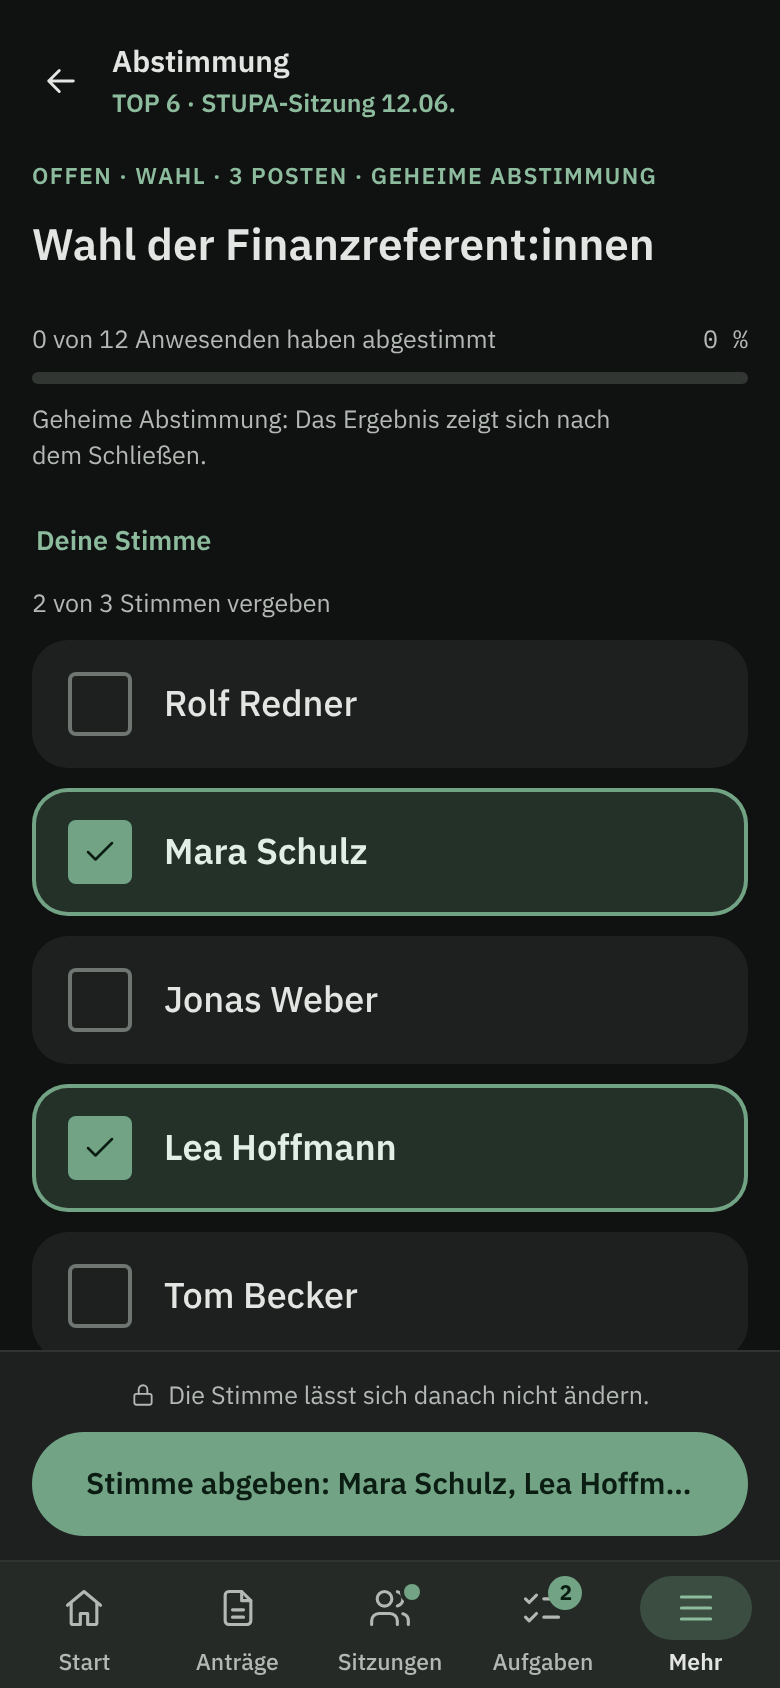
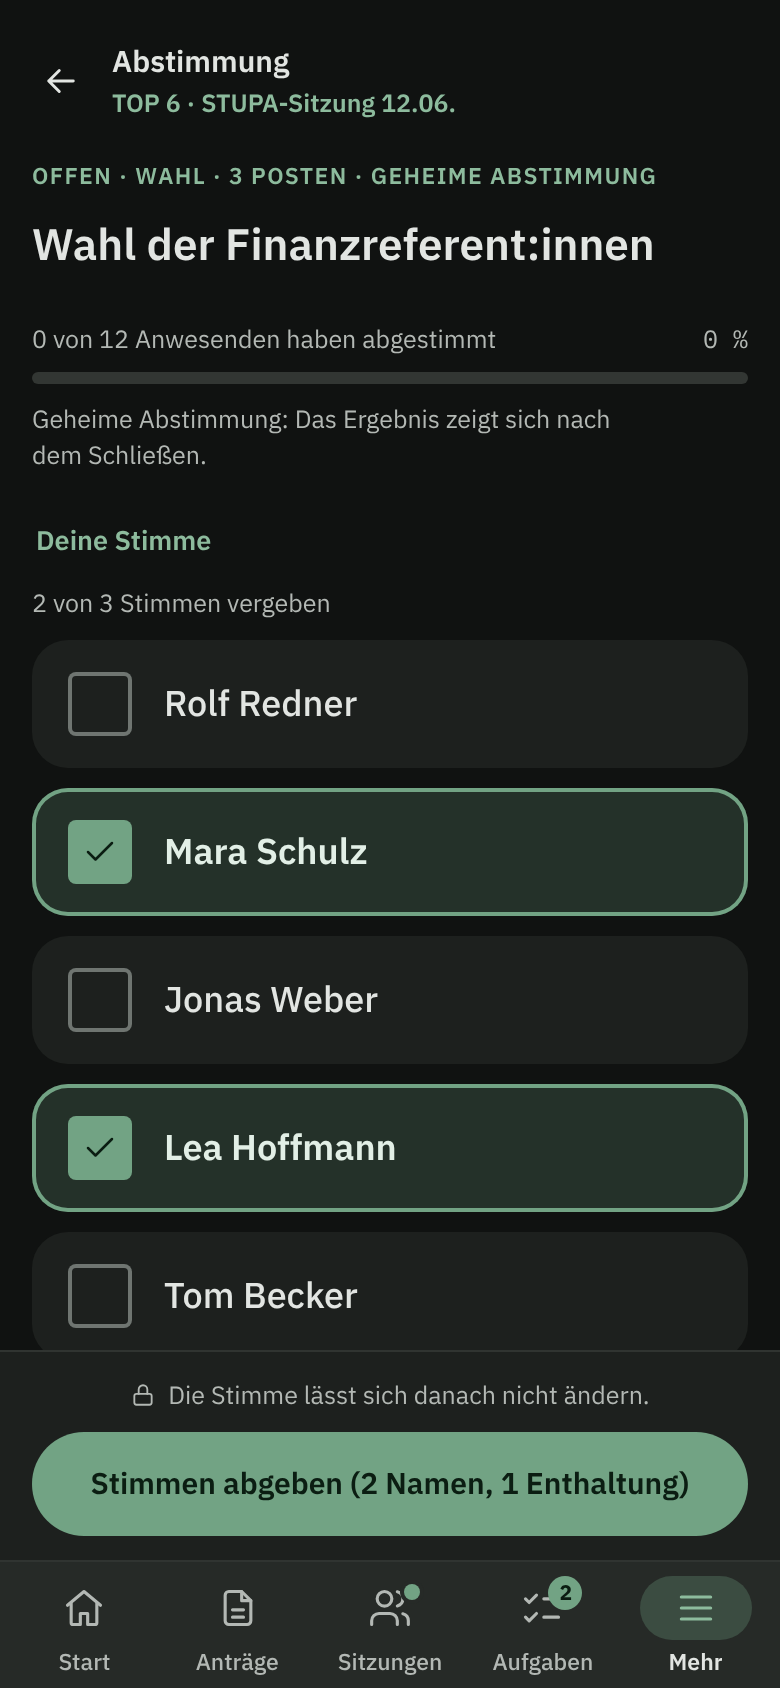
feat(frontend): show a vote counter on the multi-seat ballot button
Claude-Session: https://claude.ai/code/session_016n9HgDiT35tbCR539ybDL4

Changed region(s): [[0.1231, 0.8626, 0.8923, 0.8934]]

diff --git a/frontend/src/app/features/voting/ballot/ballot-election.spec.ts b/frontend/src/app/features/voting/ballot/ballot-election.spec.ts
@@ -57,17 +57,22 @@ describe('BallotComponent · election (F2)', () => {
     expect(await runAxe(container)).toHaveNoViolations();
   });
 
-  it('several seats: check boxes, the counter and the abstentions in the label', async () => {
+  it('several seats: check boxes, the counter and a vote count in the label', async () => {
     const { caster } = await setup(2);
     const user = userEvent.setup();
     expect(screen.getByText('0 von 2 Stimmen vergeben')).toBeInTheDocument();
     await user.click(screen.getByRole('checkbox', { name: 'Anna Berg' }));
     expect(screen.getByText('1 von 2 Stimmen vergeben')).toBeInTheDocument();
-    expect(confirmButton()).toHaveTextContent('Stimme abgeben: Anna Berg · 1 Enthaltung');
+    // The button counts instead of naming, so it stays whole on a phone (names and abstentions).
+    expect(confirmButton()).toHaveTextContent(/^Stimmen abgeben \(1 Name, 1 Enthaltung\)$/);
+    // The accessible name keeps the names.
+    expect(confirmButton()).toHaveAccessibleName('Stimmen abgeben (1 Name, 1 Enthaltung): Anna Berg');
     await user.click(screen.getByRole('checkbox', { name: 'Cem Aydin' }));
     // All votes given: the further box stays off.
     expect(screen.getByRole('checkbox', { name: 'Ben Ott' })).toBeDisabled();
-    expect(confirmButton()).toHaveTextContent('Stimme abgeben: Anna Berg, Cem Aydin');
+    // Only names: every seat has a vote.
+    expect(confirmButton()).toHaveTextContent(/^Stimmen abgeben \(2 Namen\)$/);
+    expect(confirmButton()).toHaveAccessibleName('Stimmen abgeben (2 Namen): Anna Berg, Cem Aydin');
     // A click on a chosen box takes the vote back.
     await user.click(screen.getByRole('checkbox', { name: 'Cem Aydin' }));
     expect(screen.getByRole('checkbox', { name: 'Ben Ott' })).toBeEnabled();
@@ -83,6 +88,9 @@ describe('BallotComponent · election (F2)', () => {
     await user.click(screen.getByRole('button', { name: 'Ganz enthalten' }));
     expect(screen.getByRole('checkbox', { name: 'Anna Berg' })).toHaveAttribute('aria-checked', 'false');
     expect(screen.getByRole('button', { name: 'Ganz enthalten' })).toHaveAttribute('aria-pressed', 'true');
+    // Only abstentions: no names to add to the accessible name.
+    expect(confirmButton()).toHaveTextContent(/^Stimmen abgeben \(2 Enthaltungen\)$/);
+    expect(confirmButton()).not.toHaveAttribute('aria-label');
     await user.click(confirmButton());
     expect(caster).toHaveBeenCalledWith([], false);
   });
@@ -115,6 +123,32 @@ describe('BallotComponent · election (F2)', () => {
     await user.click(confirmButton());
     expect(caster).toHaveBeenCalledWith(['c1'], true);
     expect(screen.getByText('Für Jonas Weber abgegeben: Anna Berg')).toBeInTheDocument();
+  });
+
+  it('counts the votes of a represented member on several seats', async () => {
+    const { caster } = await setup(3, { own: null, proxyName: 'Jonas Weber' });
+    const user = userEvent.setup();
+    await user.click(screen.getByRole('checkbox', { name: 'Anna Berg' }));
+    expect(confirmButton()).toHaveTextContent(/^Für Jonas Weber abgeben \(1 Name, 2 Enthaltungen\)$/);
+    await user.click(screen.getByRole('checkbox', { name: 'Ben Ott' }));
+    expect(confirmButton()).toHaveAccessibleName(
+      'Für Jonas Weber abgeben (2 Namen, 1 Enthaltung): Anna Berg, Ben Ott',
+    );
+    await user.click(confirmButton());
+    expect(caster).toHaveBeenCalledWith(['c1', 'c2'], true);
+  });
+
+  it('keeps the plain label and no extra accessible name before a pick', async () => {
+    await setup(2);
+    expect(confirmButton()).toHaveTextContent(/^Stimme abgeben$/);
+    expect(confirmButton()).not.toHaveAttribute('aria-label');
+  });
+
+  it('has no counter and no extra accessible name once every row is cast', async () => {
+    const { fixture } = await setup(2, { own: { cast: true, choice: null, choices: ['c1'] } });
+    const cmp = fixture.componentInstance as unknown as { confirmLabel(): string; confirmAria(): string };
+    expect(cmp.confirmLabel()).toBe('Stimme abgeben');
+    expect(cmp.confirmAria()).toBe('');
   });
 
   it('takes no pick while the row is cast or a cast runs', async () => {

diff --git a/frontend/src/app/features/voting/ballot/ballot.component.ts b/frontend/src/app/features/voting/ballot/ballot.component.ts
@@ -21,7 +21,7 @@ import { NgTemplateOutlet } from '@angular/common';
 import type { ElectionConfig, MyBallot, ProblemDetail } from '@core/api/models';
 import { ButtonComponent, IconComponent } from '@stupa-makers/ui-kit';
 import { voteOptionLabel } from '../../meetings/meetings-display.util';
-import { electionChoiceLabel } from '../election.util';
+import { candidateNames, electionChoiceLabel, electionCountText } from '../election.util';
 
 /** The two ballots a person can hold in one vote: the own one, and the one of a member
  *  they represent. The server keeps them apart. */
@@ -79,8 +79,9 @@ const NOT_CAST: MyBallot = { cast: false, choice: null };
  * - `election` (F2) turns the options into the candidates: one seat gives a radio list
  *   with a separate "Enthaltung" row; several seats give check boxes with the counter
  *   "1 von 2 Stimmen vergeben", the further boxes stay off when all votes are given, and
- *   "Ganz enthalten" picks no candidate. A free vote is an abstention, and the button
- *   names it. One candidate keeps the Ja/Nein/Enthaltung options.
+ *   "Ganz enthalten" picks no candidate. A free vote is an abstention. The button
+ *   counts, "Stimmen abgeben (2 Namen, 1 Enthaltung)", and its accessible name adds the
+ *   names. One candidate keeps the Ja/Nein/Enthaltung options.
  *
  * The component calls the server through `caster`; the page owns the toasts and the
  * reload (`castDone`, `castFailed`).
@@ -175,12 +176,24 @@ export class BallotComponent {
     return open(other) ? other : null;
   });
 
-  /** The label of the button: "Stimme abgeben: Ja", "Für Jonas Weber abgeben: Nein". */
+  /**
+   * The label of the button: "Stimme abgeben: Ja", "Für Jonas Weber abgeben: Nein". A
+   * multi-seat election counts instead of naming, "Stimmen abgeben (2 Namen, 1
+   * Enthaltung)", so the label stays whole on a phone; the list above shows the names.
+   */
   protected readonly confirmLabel = computed(() => {
     const row = this.target();
     const choice = row ? this.picked()[row] : null;
+    const name = this.proxyName() ?? '';
+    if (this.multiSeat() && Array.isArray(choice)) {
+      const count = electionCountText(this.election(), choice, (key, params) =>
+        this.i18n.translate(key, params),
+      );
+      return row === 'proxy'
+        ? this.i18n.translate('voting.ballot.confirmProxyCount', { name, count })
+        : this.i18n.translate('voting.ballot.confirmCount', { count });
+    }
     if (row === 'proxy') {
-      const name = this.proxyName() ?? '';
       return choice !== null
         ? this.i18n.translate('voting.ballot.confirmProxy', { name, choice: this.choiceLabel(choice) })
         : this.i18n.translate('voting.ballot.confirmProxyEmpty', { name });
@@ -188,6 +201,20 @@ export class BallotComponent {
     return choice !== null
       ? this.i18n.translate('voting.ballot.confirm', { choice: this.choiceLabel(choice) })
       : this.i18n.translate('voting.ballot.confirmEmpty');
+  });
+
+  /**
+   * The accessible name of the button: the counter label with the chosen names, so a
+   * screen reader hears whom the ballot elects. Empty (the visible label) otherwise.
+   */
+  protected readonly confirmAria = computed(() => {
+    const row = this.target();
+    const choice = row ? this.picked()[row] : null;
+    if (!this.multiSeat() || !Array.isArray(choice) || choice.length === 0) return '';
+    return this.i18n.translate('voting.ballot.confirmNames', {
+      label: this.confirmLabel(),
+      names: candidateNames(this.election(), choice).join(', '),
+    });
   });
 
   /**

diff --git a/frontend/src/app/core/i18n/translations.ts b/frontend/src/app/core/i18n/translations.ts
@@ -1145,6 +1145,8 @@ export const de = {
   'election.seats.other': '{n} Posten',
   'election.abstentions.one': '1 Enthaltung',
   'election.abstentions.other': '{n} Enthaltungen',
+  'election.names.one': '1 Name',
+  'election.names.other': '{n} Namen',
   'election.abstentionsLabel': 'Enthaltungen',
   'election.dialog.round': 'Wahlgang',
   'election.dialog.roundPlaceholder': 'z. B. Wahl der Sitzungsleitung',
@@ -1467,6 +1469,9 @@ export const de = {
   'voting.ballot.confirmEmpty': 'Stimme abgeben',
   'voting.ballot.confirmProxy': 'Für {name} abgeben: {choice}',
   'voting.ballot.confirmProxyEmpty': 'Für {name} abgeben',
+  'voting.ballot.confirmCount': 'Stimmen abgeben ({count})',
+  'voting.ballot.confirmProxyCount': 'Für {name} abgeben ({count})',
+  'voting.ballot.confirmNames': '{label}: {names}',
   'voting.ballot.final': 'Die Stimme lässt sich danach nicht ändern.',
   'voting.ballot.thanks': 'Danke! Deine Stimme: {choice}',
   'voting.ballot.thanksSecret': 'Danke! Deine Stimme ist abgegeben.',
@@ -4765,6 +4770,8 @@ export const en: Partial<Record<TranslationKey, string>> = {
   'election.seats.other': '{n} seats',
   'election.abstentions.one': '1 abstention',
   'election.abstentions.other': '{n} abstentions',
+  'election.names.one': '1 name',
+  'election.names.other': '{n} names',
   'election.abstentionsLabel': 'Abstentions',
   'election.dialog.round': 'Election round',
   'election.dialog.roundPlaceholder': 'e.g. Election of the chair',
@@ -5084,6 +5091,9 @@ export const en: Partial<Record<TranslationKey, string>> = {
   'voting.ballot.confirmEmpty': 'Cast vote',
   'voting.ballot.confirmProxy': 'Cast for {name}: {choice}',
   'voting.ballot.confirmProxyEmpty': 'Cast for {name}',
+  'voting.ballot.confirmCount': 'Cast votes ({count})',
+  'voting.ballot.confirmProxyCount': 'Cast for {name} ({count})',
+  'voting.ballot.confirmNames': '{label}: {names}',
   'voting.ballot.final': 'You cannot change the vote afterwards.',
   'voting.ballot.thanks': 'Thank you! Your vote: {choice}',
   'voting.ballot.thanksSecret': 'Thank you! Your vote is cast.',

diff --git a/frontend/src/app/features/voting/election.util.spec.ts b/frontend/src/app/features/voting/election.util.spec.ts
@@ -6,12 +6,14 @@ import {
   electionBars,
   electionCaption,
   electionChoiceLabel,
+  electionCountText,
   electionOf,
   electionResultLine,
   closedStatus,
   electionStatus,
   isYesNoElection,
   lotPending,
+  namesText,
   runoffPending,
   seatsText,
 } from './election.util';
@@ -55,6 +57,25 @@ describe('election.util', () => {
     expect(abstentionsText(1, t)).toBe('election.abstentions.one');
     expect(seatsText(1, t)).toBe('election.seats.one');
     expect(seatsText(4, t)).toBe('election.seats.other{"n":4}');
+  });
+
+  it('counts the names and the abstentions of a multi-seat ballot', () => {
+    const three = { ...ELECTION, seats: 3 };
+    expect(namesText(1, t)).toBe('election.names.one');
+    expect(namesText(2, t)).toBe('election.names.other{"n":2}');
+    // Only names: every seat has a vote.
+    expect(electionCountText(ELECTION, ['c1', 'c2'], t)).toBe('election.names.other{"n":2}');
+    // Names and abstentions.
+    expect(electionCountText(three, ['c1', 'c2'], t)).toBe(
+      'election.names.other{"n":2}, election.abstentions.one',
+    );
+    expect(electionCountText(three, ['c1'], t)).toBe(
+      'election.names.one, election.abstentions.other{"n":2}',
+    );
+    // Only abstentions: the full abstention.
+    expect(electionCountText(three, [], t)).toBe('election.abstentions.other{"n":3}');
+    // Without a config one seat counts.
+    expect(electionCountText(null, ['c1'], t)).toBe('election.names.one');
   });
 
   it('builds the bars best first with the tags and the abstentions', () => {

diff --git a/frontend/src/app/features/voting/election.util.ts b/frontend/src/app/features/voting/election.util.ts
@@ -58,6 +58,28 @@ export function abstentionsText(n: number, t: Translate): string {
   return n === 1 ? t('election.abstentions.one') : t('election.abstentions.other', { n });
 }
 
+/** "1 Name", "2 Namen". */
+export function namesText(n: number, t: Translate): string {
+  return n === 1 ? t('election.names.one') : t('election.names.other', { n });
+}
+
+/**
+ * The counter of a multi-seat ballot: "2 Namen, 1 Enthaltung", "3 Namen" or
+ * "3 Enthaltungen" (a full abstention). It stays short, so the confirm button of a
+ * phone shows it whole; the list above shows the names.
+ */
+export function electionCountText(
+  election: ElectionConfig | null,
+  picks: readonly string[],
+  t: Translate,
+): string {
+  const free = (election?.seats ?? 1) - picks.length;
+  const parts: string[] = [];
+  if (picks.length > 0) parts.push(namesText(picks.length, t));
+  if (free > 0) parts.push(abstentionsText(free, t));
+  return parts.join(', ');
+}
+
 /** "1 Posten", "2 Posten". */
 export function seatsText(n: number, t: Translate): string {
   return n === 1 ? t('election.seats.one') : t('election.seats.other', { n });

diff --git a/frontend/src/app/features/voting/ballot/ballot.component.html b/frontend/src/app/features/voting/ballot/ballot.component.html
@@ -125,6 +125,7 @@
       [block]="!columns()"
       [disabled]="!canConfirm()"
       [loading]="busy"
+      [ariaLabel]="confirmAria()"
       (click)="confirm()"
     >
       {{ confirmLabel() }}
